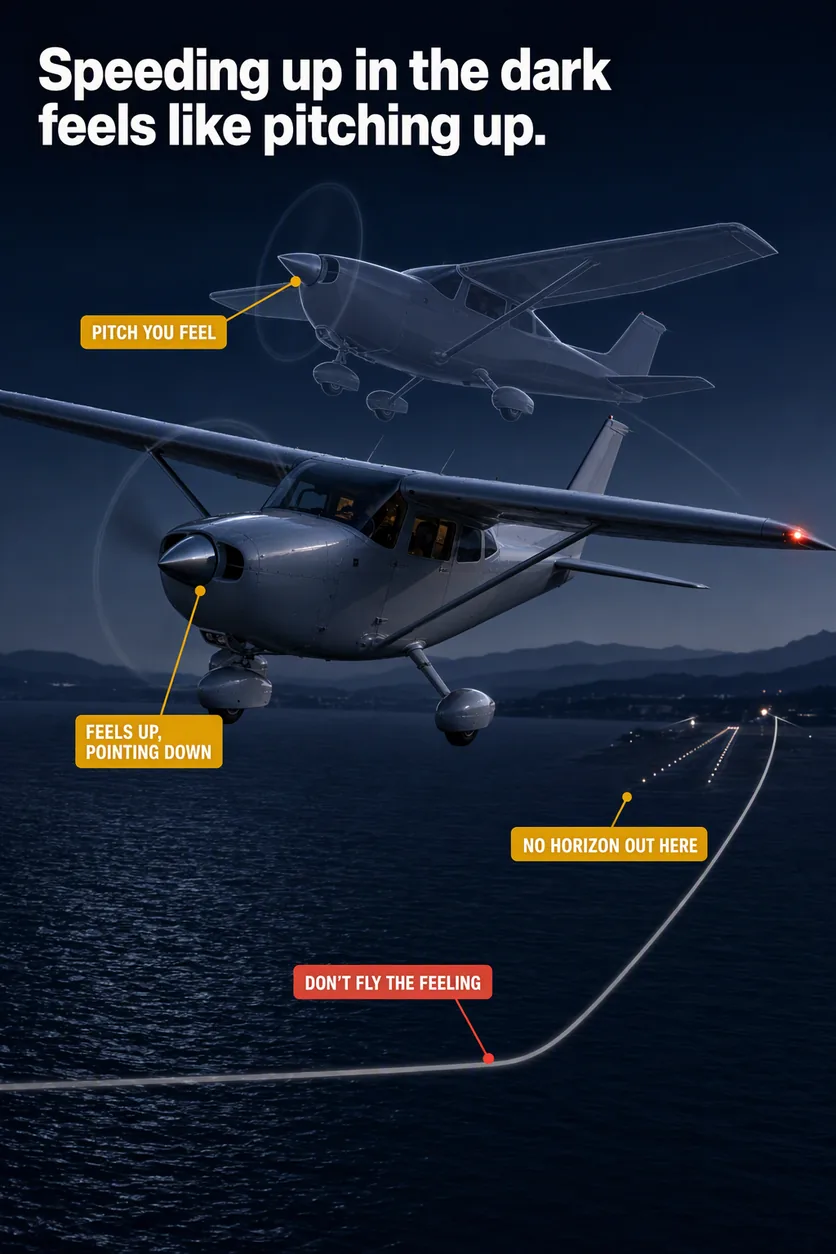
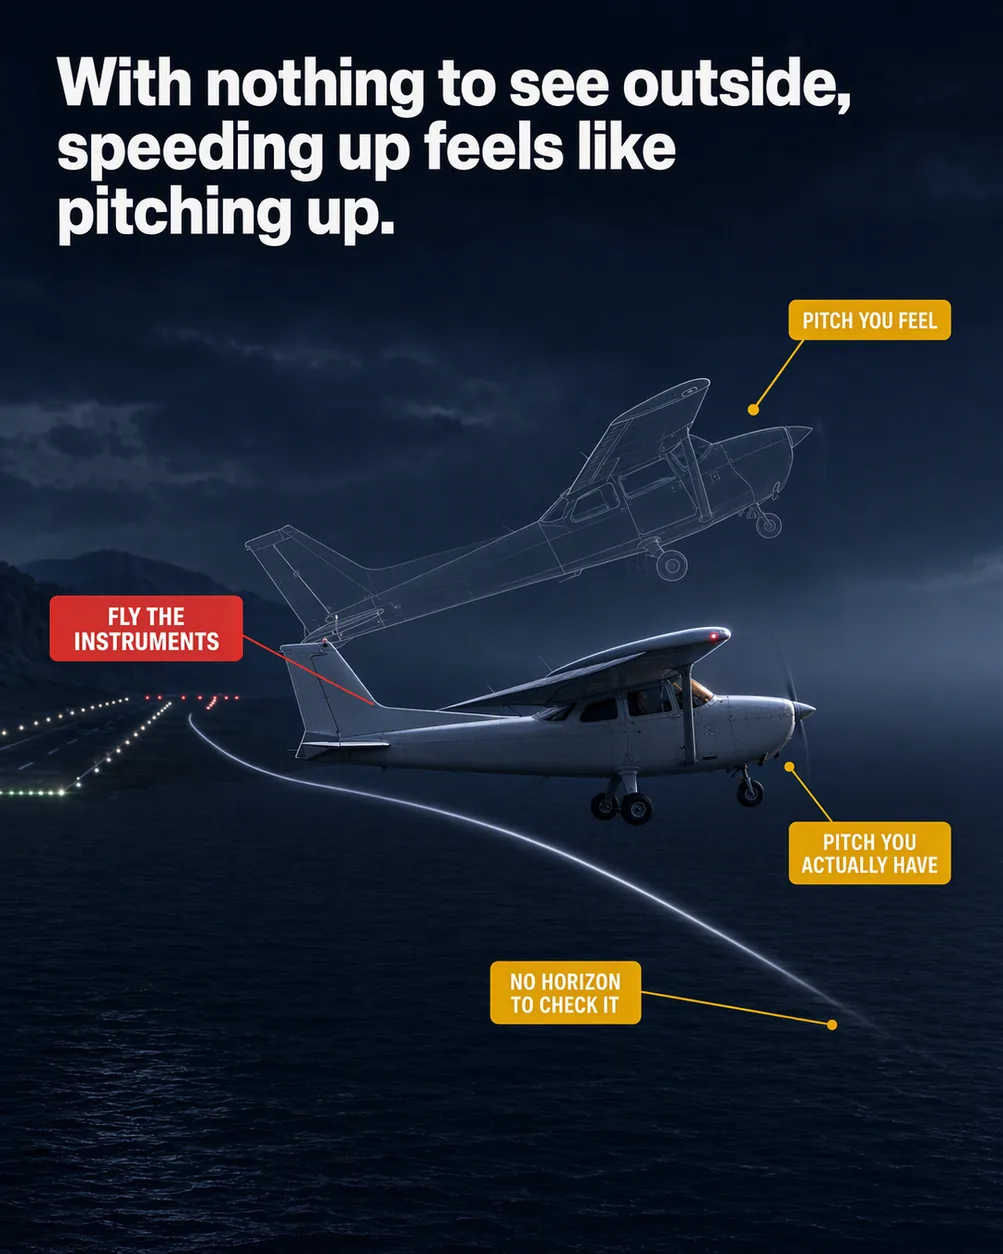
site: deploy website from monorepo 0eee868b
Auto-mirrored by .github/workflows/deploy-website.yml

diff --git a/explainers/acceleration-that-feels-like-a-climb/index.html b/explainers/acceleration-that-feels-like-a-climb/index.html
@@ -4,7 +4,7 @@
   <meta charset="UTF-8" />
   <meta name="viewport" content="width=device-width, initial-scale=1.0" />
   <title>Acceleration that feels like a climb: illustrated explainer for pilots | FlightDecide</title>
-  <meta name="description" content="Speeding up in the dark feels like pitching up. An illustrated explainer for pilots, with the FAA sources it rests on." />
+  <meta name="description" content="With nothing to see outside, speeding up feels like pitching up. An illustrated explainer for pilots, with the FAA sources it rests on." />
   <link rel="canonical" href="https://flightdecide.com/explainers/acceleration-that-feels-like-a-climb/" />
   <link rel="icon" href="/favicon.ico" sizes="any" />
   <link rel="icon" type="image/png" sizes="48x48" href="/assets/brand/favicon-48.png" />
@@ -14,17 +14,17 @@
   <meta property="og:type" content="article" />
   <meta property="og:site_name" content="FlightDecide" />
   <meta property="og:title" content="Acceleration that feels like a climb" />
-  <meta property="og:description" content="Speeding up in the dark feels like pitching up. An illustrated explainer for pilots, with the FAA sources it rests on." />
+  <meta property="og:description" content="With nothing to see outside, speeding up feels like pitching up. An illustrated explainer for pilots, with the FAA sources it rests on." />
   <meta property="og:url" content="https://flightdecide.com/explainers/acceleration-that-feels-like-a-climb/" />
   <meta property="og:image" content="https://flightdecide.com/assets/explainers/acceleration-that-feels-like-a-climb.webp" />
-  <meta property="og:image:width" content="836" />
-  <meta property="og:image:height" content="836" />
+  <meta property="og:image:width" content="1003" />
+  <meta property="og:image:height" content="1003" />
   <meta property="og:image:alt" content="Acceleration that feels like a climb" />
   <meta property="article:published_time" content="2026-09-22" />
   <meta property="article:section" content="Visual illusions" />
   <meta name="twitter:card" content="summary_large_image" />
   <meta name="twitter:title" content="Acceleration that feels like a climb" />
-  <meta name="twitter:description" content="Speeding up in the dark feels like pitching up. An illustrated explainer for pilots, with the FAA sources it rests on." />
+  <meta name="twitter:description" content="With nothing to see outside, speeding up feels like pitching up. An illustrated explainer for pilots, with the FAA sources it rests on." />
   <meta name="twitter:image" content="https://flightdecide.com/assets/explainers/acceleration-that-feels-like-a-climb.webp" />
   <link rel="stylesheet" href="/assets/pages.css" />
   <script type="application/ld+json">
@@ -35,8 +35,8 @@
       "@type": "Article",
       "@id": "https://flightdecide.com/explainers/acceleration-that-feels-like-a-climb/#article",
       "headline": "Acceleration that feels like a climb",
-      "alternativeHeadline": "Speeding up in the dark feels like pitching up.",
-      "description": "Speeding up in the dark feels like pitching up. An illustrated explainer for pilots, with the FAA sources it rests on.",
+      "alternativeHeadline": "With nothing to see outside, speeding up feels like pitching up.",
+      "description": "With nothing to see outside, speeding up feels like pitching up. An illustrated explainer for pilots, with the FAA sources it rests on.",
       "url": "https://flightdecide.com/explainers/acceleration-that-feels-like-a-climb/",
       "datePublished": "2026-09-22",
       "dateModified": "2026-09-22",
@@ -62,8 +62,8 @@
         "@type": "ImageObject",
         "@id": "https://flightdecide.com/explainers/acceleration-that-feels-like-a-climb/#image",
         "url": "https://flightdecide.com/assets/explainers/acceleration-that-feels-like-a-climb.webp",
-        "width": 836,
-        "height": 836,
+        "width": 1003,
+        "height": 1003,
         "caption": "Acceleration that feels like a climb",
         "description": "Acceleration that feels like a climb: an illustrated diagram for pilots. Speeding up in the dark feels like pitching up. The picture shows a rendered single-engine aeroplane seconds after a night takeoff, seen three-quarter from off its left, wings level and nose pushed visibly below a climb attitude, gear doors still closing; a translucent ghost of the same aeroplane superimposed at the same point in space, pitched distinctly nose-high, with the solid nose plainly lower than the ghost's; a thin pale line tracing the solid aircraft's path: up off the runway, over a shallow crest, then bending down toward the unlit surface at the front of the frame; unlit water filling everything ahead of and below the aeroplane, with no readable seam where the surface meets the sky. Flight training explainer from FlightDecide.",
         "representativeOfPage": true
@@ -136,7 +136,7 @@
   <div class="page-hero">
     <span class="page-label">Explainer · Visual illusions</span>
     <h1>Acceleration that feels like a climb</h1>
-    <p class="page-sub">Speeding up in the dark feels like pitching up.</p>
+    <p class="page-sub">With nothing to see outside, speeding up feels like pitching up.</p>
   </div>
 
   <div class="page-wrap prose">
@@ -145,7 +145,7 @@
 
     <figure class="explainer-figure">
       <img src="/assets/explainers/acceleration-that-feels-like-a-climb.webp" alt="Acceleration that feels like a climb: an illustrated diagram for pilots. Speeding up in the dark feels like pitching up. The picture shows a rendered single-engine aeroplane seconds after a night takeoff, seen three-quarter from off its left, wings level and nose pushed visibly below a climb attitude, gear doors still closing; a translucent ghost of the same aeroplane superimposed at the same point in space, pitched distinctly nose-high, with the solid nose plainly lower than the ghost&#x27;s; a thin pale line tracing the solid aircraft&#x27;s path: up off the runway, over a shallow crest, then bending down toward the unlit surface at the front of the frame; unlit water filling everything ahead of and below the aeroplane, with no readable seam where the surface meets the sky. Flight training explainer from FlightDecide."
-           width="836" height="836" fetchpriority="high" decoding="async" />
+           width="1003" height="1003" fetchpriority="high" decoding="async" />
     </figure>
 
     <p>On a dark night takeoff, acceleration pushes the inner ear the same way a nose-up pitch would, and the instinct is to push down.</p>
@@ -154,9 +154,9 @@
     <p class="fk-intro">The labels on the illustration, and what each one is pointing at.</p>
     <ul class="explainer-figkey">
       <li><span class="fk-label">PITCH YOU FEEL</span><span class="fk-points">The raised nose and spinner of the translucent ghost aeroplane.</span></li>
-      <li><span class="fk-label">FEELS UP, POINTING DOWN</span><span class="fk-points">The solid aeroplane&#x27;s nose and spinner, sitting clearly below the ghost&#x27;s.</span></li>
-      <li><span class="fk-label">NO HORIZON OUT HERE</span><span class="fk-points">The place directly ahead of the solid aircraft&#x27;s spinner where black water meets sky with no readable seam.</span></li>
-      <li><span class="fk-label">DON&#x27;T FLY THE FEELING</span><span class="fk-points">The solid aircraft&#x27;s flight path line where it bends down closest to the water.</span></li>
+      <li><span class="fk-label">PITCH YOU ACTUALLY HAVE</span><span class="fk-points">The solid aeroplane&#x27;s nose, visibly below the ghost&#x27;s and below level.</span></li>
+      <li><span class="fk-label">NO HORIZON TO CHECK IT</span><span class="fk-points">The place straight ahead of the spinner where black water meets sky with no seam.</span></li>
+      <li><span class="fk-label">FLY THE INSTRUMENTS</span><span class="fk-points">The solid aeroplane&#x27;s windscreen and the warm instrument glow behind it.</span></li>
     </ul>
 
     <h2>The dark takeoff that starts it</h2>
@@ -187,7 +187,7 @@
     <h2>What this teaches</h2>
     <ul class="explainer-teaches">
       <li>Forward acceleration can produce a false sensation of a nose-up pitch attitude.</li>
-      <li>Without an outside horizon the pilot may respond by lowering the nose toward the surface.</li>
+      <li>Without outside visual references the pilot may lower the nose toward the surface, so pitch must be flown on the flight instruments rather than on what the body reports.</li>
     </ul>
 
     <h2>Where to read more</h2>

diff --git a/explainers/index.html b/explainers/index.html
@@ -17,8 +17,8 @@
   <meta property="og:description" content="One illustration a day on the things that catch pilots out, each cited to the FAA handbooks or the regulations." />
   <meta property="og:url" content="https://flightdecide.com/explainers/" />
   <meta property="og:image" content="https://flightdecide.com/assets/explainers/acceleration-that-feels-like-a-climb.webp" />
-  <meta property="og:image:width" content="836" />
-  <meta property="og:image:height" content="836" />
+  <meta property="og:image:width" content="1003" />
+  <meta property="og:image:height" content="1003" />
   <meta property="og:image:alt" content="Illustrated Explainers for Pilots" />
   <meta name="twitter:card" content="summary_large_image" />
   <meta name="twitter:title" content="Illustrated Explainers for Pilots" />
